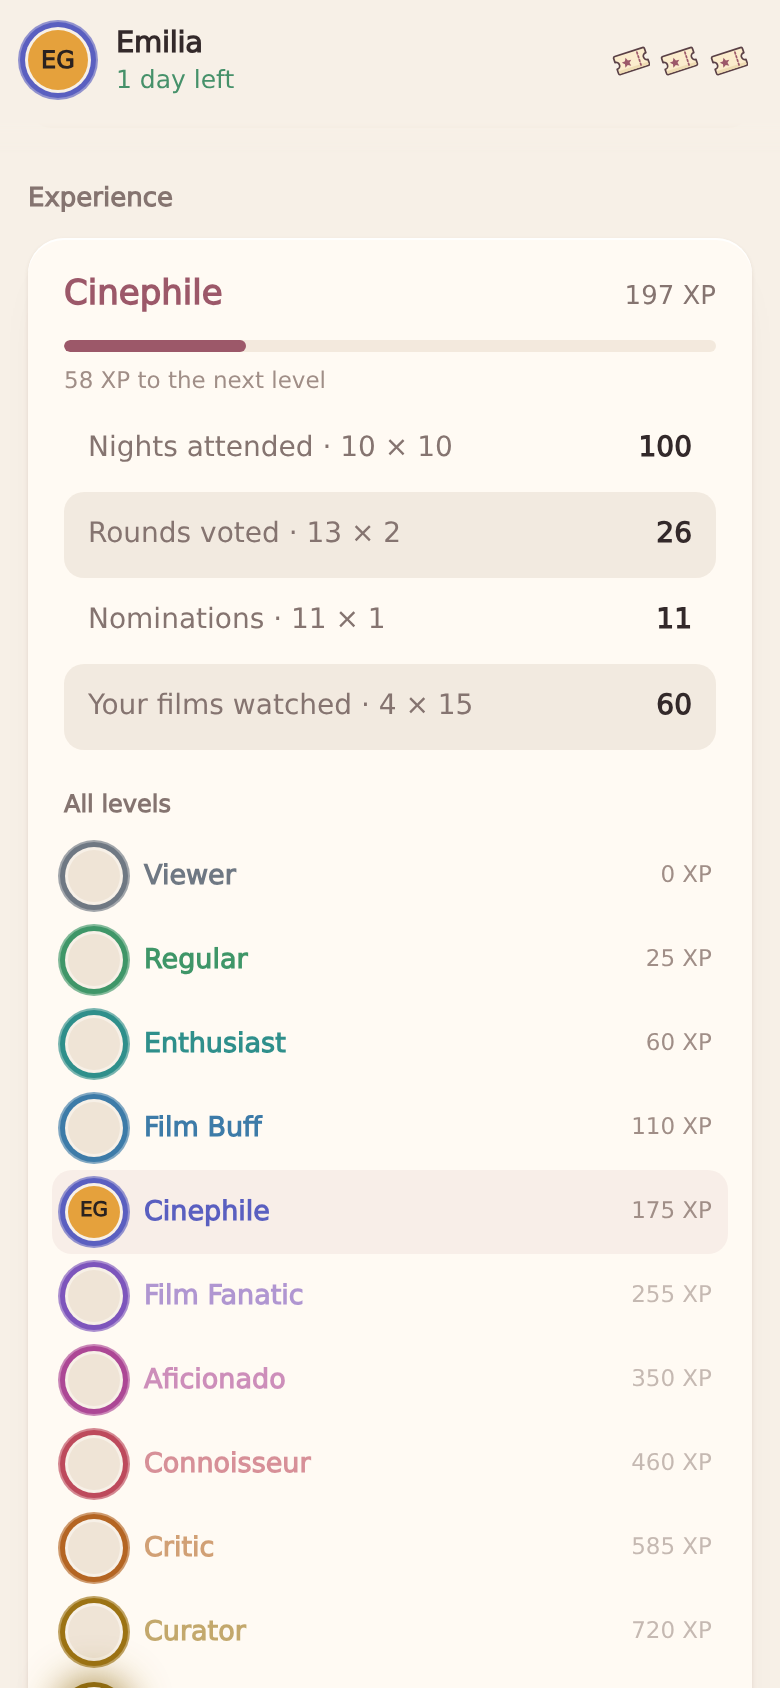
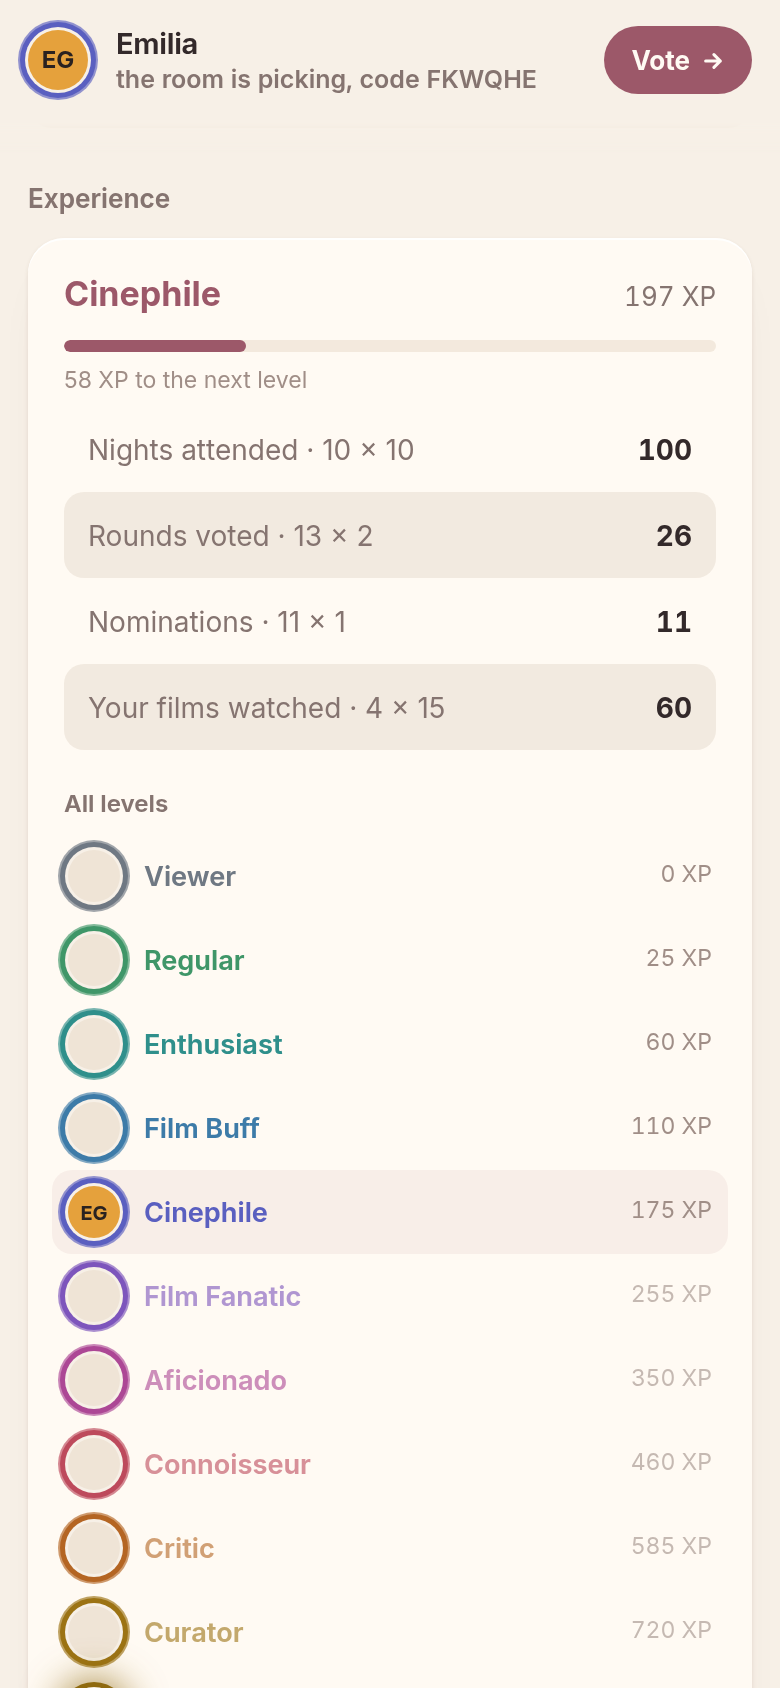
docs/screenshots: retake with inter loaded
* the headless browser fell back to DejaVu Sans, which truncated
  titles and threw the spacing off
* adds the saved ballot and the desktop room, count and result,
  and the readme shows them in two rows

diff --git a/README.md b/README.md
@@ -12,8 +12,14 @@ anonymised copy of the live database, rebuilt every hour. The names, pfps and co
 
 <p align="center">
   <img src="docs/screenshots/list.png" alt="The film list" width="30%">
-  <img src="docs/screenshots/host.png" alt="The projector view" width="30%">
+  <img src="docs/screenshots/ballot.png" alt="The ballot on a phone, after scanning the room's QR code and ranking the three films" width="30%">
   <img src="docs/screenshots/me.png" alt="A profile" width="30%">
+</p>
+
+<p align="center">
+  <img src="docs/screenshots/room.png" alt="The projector view while the room votes: QR code, room code and the three films" width="32%">
+  <img src="docs/screenshots/count.png" alt="The projector view counting the votes" width="32%">
+  <img src="docs/screenshots/host.png" alt="The projector view once the count is done" width="32%">
 </p>
 
 ## Stack
